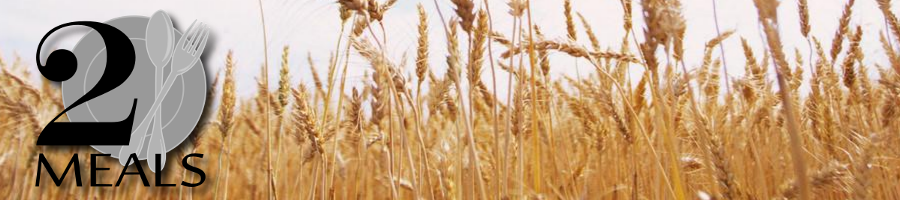
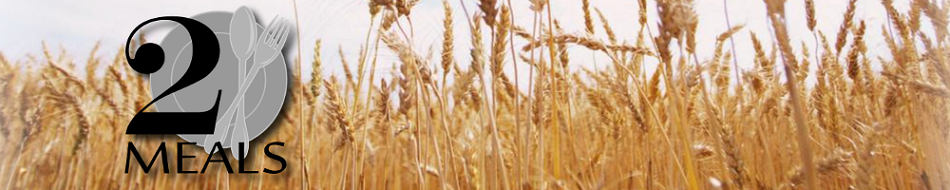
Moved facebook iframe to bottom of page. Edited 2meals header image.

diff --git a/protected/views/layouts/main.php b/protected/views/layouts/main.php
@@ -20,8 +20,7 @@
 		<script type="text/javascript">
 			window.___gcfg = {
 				lang : 'en-US'
-			};
-			(function() {
+			}; (function() {
 				var po = document.createElement('script');
 				po.type = 'text/javascript';
 				po.async = true;
@@ -92,14 +91,15 @@ janrain.settings.tokenUrl = "<?php echo Yii::app() -> createAbsoluteUrl('site/to
 					<div id="followTxt">
 						Follow us:
 					</div>
-					<div id="like_btn">
-						<iframe src="http://www.facebook.com/plugins/like.php?href=https://www.2meals.com/" scrolling="no" frameborder="0" style="height: 50px"></iframe>
-					</div>
 					<div id="google_plus_follow_btn">
 						<g:plusone annotation="none"></g:plusone>
 					</div>
 					<div id="twitter_follow_btn">
 						<a href="https://twitter.com/2meals" class="twitter-follow-button">Follow @2meals</a>
+					</div>
+					<br/>
+					<div id="like_btn">
+						<iframe src="http://www.facebook.com/plugins/like.php?href=https://www.2meals.com/" scrolling="no" frameborder="0" style="border: none;"></iframe>
 					</div>
 				</div>
 			</div><!-- footer -->
